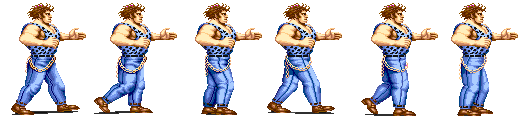
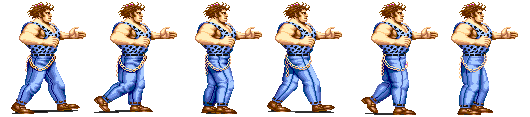
added thud.wav

diff --git a/BeatEmUp/BeatEmUp/source/Enemy.cpp b/BeatEmUp/BeatEmUp/source/Enemy.cpp
@@ -162,7 +162,6 @@ void Enemy::HandleKnockedDown()
 		yVel += Gravity/(float)JumpHeight;
 		if(position.y <= jumpLocation.y - JumpHeight) 
 			jumpState = JS_Landing;
-//		Translate();
 	}
 	//Landing (in the air)..
 	else if(jumpState == JS_Landing)
@@ -172,7 +171,6 @@ void Enemy::HandleKnockedDown()
 		{
 			yVel += Gravity;
 			xVel += GetDirection() == Right? 0.15f: -0.15f;
-//			Translate();
 		}
 		//Landed. On the ground now...
 		else 
@@ -182,9 +180,9 @@ void Enemy::HandleKnockedDown()
 			position.y = jumpLocation.y;
 			current->SetCurrentFrame(1);
 			MIXER.Play(Mixer::SE_Thud);
-//			Translate();
 		}
 	}
+	//On-the-ground logic...
 	else if(jumpState == JS_Ground)
 	{
 		//Getting up...
@@ -209,11 +207,13 @@ void Enemy::HandleKnockedDown()
 					recoveryTimer = 0;
 				}
 			}
-//			Translate();
 		}
 	}
 
 	Translate();
+	current->Position().x = position.x;
+	current->Position().y = position.y;
+	current->Update();
 }
 
 
@@ -221,6 +221,13 @@ const float MaxDistX = 50.0f;
 const float MaxDistY = 0.0f;
 void Enemy::Update()
 {
+	//Knocked down.. get up or die...
+	if(state == ES_KnockedDown)
+	{
+		HandleKnockedDown();
+		return;
+	}
+
 	//Recovery (when hit)
 	if(state == ES_Hit && SDL_GetTicks() > recoveryTimer)
 	{
@@ -228,16 +235,6 @@ void Enemy::Update()
 		state = ES_Idle;
 		recoveryTimer = 0;
 		hitCount = 0;
-	}
-
-	//Knocked down.. get up or die...
-	if(state == ES_KnockedDown)
-	{
-		HandleKnockedDown();
-		current->Position().x = position.x;
-		current->Position().y = position.y;
-		current->Update();
-		return;
 	}
 
 	//Chase player

diff --git a/BeatEmUp/BeatEmUp/source/Game.cpp b/BeatEmUp/BeatEmUp/source/Game.cpp
@@ -49,8 +49,8 @@ bool Game::Init()
 
 
 	andore = new Enemy(renderer_, 
-		Sprite::FromFile("resources/andore_walkleft.png", renderer_, 84, 124, 10, 5),
-		Sprite::FromFile("resources/andore_walkright.png", renderer_, 88, 130, 10, 5), 
+		Sprite::FromFile("resources/andore_walkleft.png", renderer_, 84, 115, 10, 5),
+		Sprite::FromFile("resources/andore_walkright.png", renderer_, 88, 117, 10, 5), 
 		Sprite::FromFile("resources/andore_punchleft.png", renderer_, 115, 112, 10, 1),
 		Sprite::FromFile("resources/andore_punchright.png", renderer_, 115, 112, 10, 1), 
 		Sprite::FromFile("resources/andore_hitleft.png", renderer_, 70, 124, 5, 0), 
